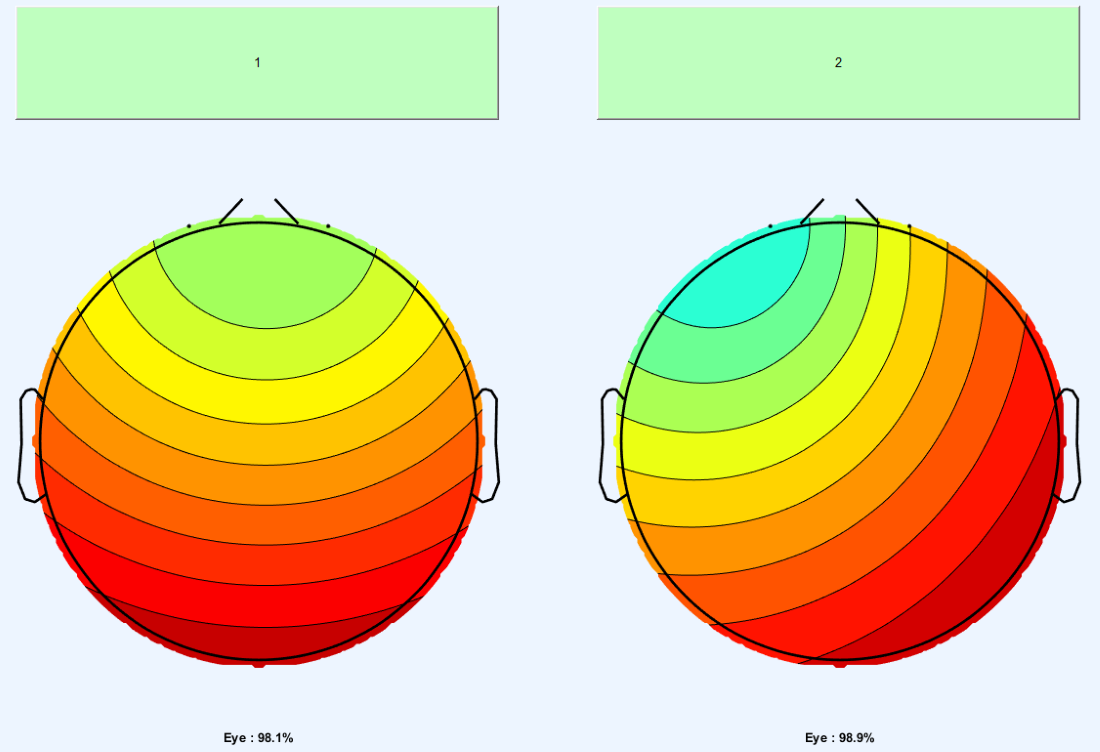
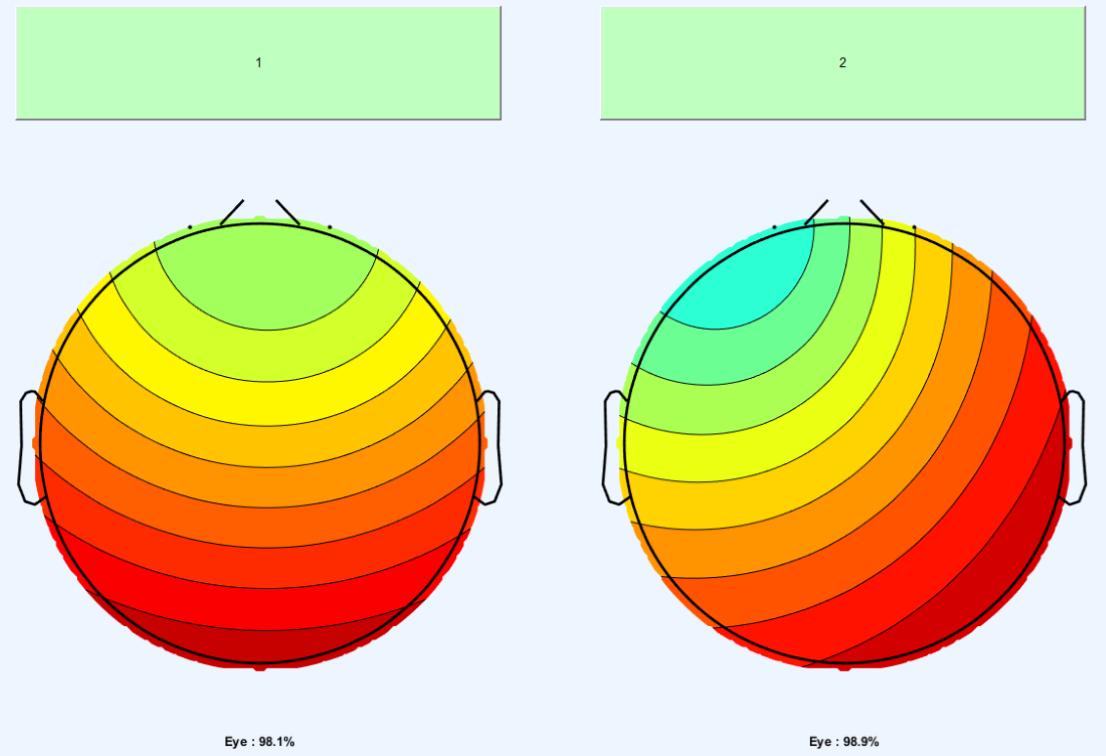
image and description update

diff --git a/README.md b/README.md
@@ -287,7 +287,9 @@ We performed a comparison of the number of identified ICs in the dataset obtaine
   </tr>
 </table>
 
-Upon examining the results, we can observe that applying ASR to the filtered data yields more accurate detection of independent components.
+The raw data reveals a significant increase in the eye component fidelity following the application of the bandpass filter and ASR algorithm. Specifically, the fidelity of the first component improves from 68.7% to 98.1%, while the second component shows an enhancement from 85.5% to 98.9%.
+
+In the creation of epochs for the GNAN dataset, the blink event was deliberately positioned at the 1-second mark. Subsequently, data were selected from the 1 second prior to this event, and extended to 3 seconds post-event. Upon inspection of the epoch graphs, it is clear that the data processed via the ASR method accurately emphasizes the blink behavior at the 1-second mark.
 
 <table>
   <tr>
@@ -422,8 +424,6 @@ In this project, we used the following software application:
 4. Run the whole script in the selected notebook
 
 ## Results
-
-_Present a detailed comparison and analysis of your BCI system's performance against the competing methods. Include metrics such as accuracy, precision, recall, F1-score, or any other relevant evaluation metrics. Compare and contrast your BCI system with existing competing methods. Highlight the advantages and unique aspects of your system._
 
 The following table represent the accuracy of the voluntary & involuntary blink classifier by using different models:
 
